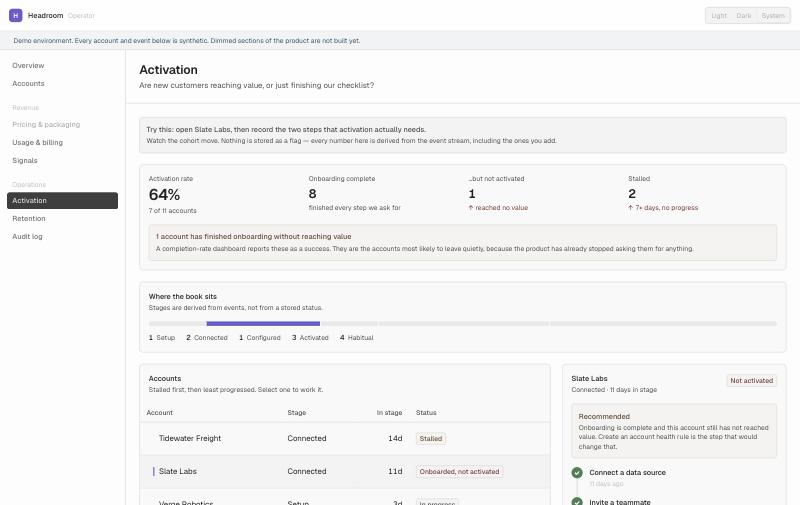
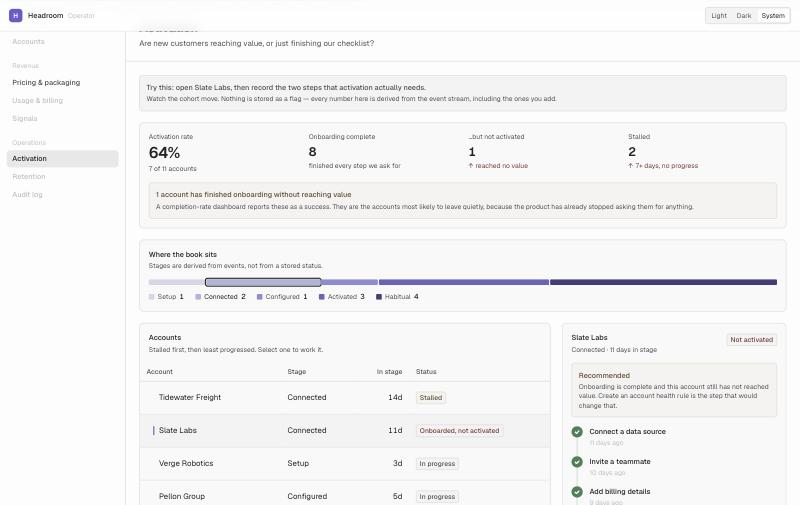
Give the stage distribution a sequential scale and unambiguous counts
The numbers in the bar were right — 1, 2, 1, 3, 4 of 11, rendering at 9, 18,
9, 27 and 36 per cent. The encoding was not.

Four of the five segments shared one flat fill, so the boundaries between them
were invisible and the bar read as a single block rather than a distribution.
The legend made it worse: a bare count in front of a stage name reads as an
ordinal, and because the stages are genuinely a sequence, "1 Setup,
2 Connected, 1 Configured" looked like a numbered list that had lost its place.

Segments now take a sequential scale, which is what ordered stages want, and
each legend entry pairs a swatch with its label and then its count. Emphasis
on the selected stage is a ring rather than a different fill, so it does not
overwrite the one thing the scale encodes.

The scale is generated separately from the UI ramp rather than aliased onto
it. Aliasing was the first attempt and the contrast gate rejected it: the UI
ramp is deliberately dense at the light end, where surfaces need fine
distinctions, which made consecutive steps measure Lc 0.0 apart. A chart scale
wants even perceptual spacing instead, so it gets its own.

The gate also corrected the check itself. Measuring each step against its
neighbour was wrong, because segments are separated by a gap in the card
colour — the gap does the separating, so what governs visibility is each step
against the card. Neighbour checks would have forced a scale whose first step
[…]

diff --git a/packages/ui/src/components/stepper.tsx b/packages/ui/src/components/stepper.tsx
@@ -137,9 +137,16 @@ export interface DistributionSegment {
 /**
  * A single stacked bar showing how a population splits across ordered stages.
  *
- * Counts are printed beside every label rather than relying on segment width,
- * because a stage holding one account out of eleven is a sliver nobody can
- * compare by eye.
+ * Segments take a sequential scale rather than one flat fill, because the
+ * stages are ordered and the scale should say so. One flat fill repeated five
+ * times makes every boundary invisible, which turns a distribution into a
+ * single block — the counts are then the only thing communicating, and the bar
+ * is decoration.
+ *
+ * Counts sit beside their own swatch in the legend. A bare number in front of
+ * a stage name reads as an ordinal, especially when the stages are a sequence:
+ * "1 Setup, 2 Connected, 1 Configured" looks like a numbered list that lost
+ * its place rather than three counts.
  */
 export function Distribution({
   segments,
@@ -156,27 +163,47 @@ export function Distribution({
     <div className={className}>
       <div
         role="img"
-        aria-label={`${label}: ${segments.map((s) => `${s.value} ${s.label}`).join(', ')}`}
-        className="flex h-2 w-full gap-0.5 overflow-hidden rounded-sm"
+        aria-label={`${label}. ${segments
+          .map((s) => `${s.label}: ${s.value}`)
+          .join('. ')}. ${total} in total.`}
+        className="flex h-2.5 w-full gap-0.5"
       >
-        {segments.map((s) => (
+        {segments.map((s, i) => (
           <span
             key={s.id}
             className={cn(
-              'h-full first:rounded-l-sm last:rounded-r-sm',
-              s.emphasis ? 'bg-accent-solid' : 'bg-bg-component-active',
+              'h-full rounded-xs',
+              // Emphasis is a ring, not a different fill: swapping the colour
+              // would break the one thing the scale is encoding.
+              s.emphasis && 'ring-2 ring-text-primary ring-offset-1 ring-offset-bg-surface',
             )}
-            style={{ width: total === 0 ? '0%' : `${(s.value / total) * 100}%` }}
+            style={{
+              backgroundColor: `var(--color-scale-${Math.min(i + 1, 5)})`,
+              width: total === 0 ? '0%' : `${(s.value / total) * 100}%`,
+            }}
           />
         ))}
       </div>
+
       <ul className="mt-3 flex flex-wrap gap-x-5 gap-y-2">
-        {segments.map((s) => (
-          <li key={s.id} className="flex items-baseline gap-1.5">
+        {segments.map((s, i) => (
+          <li key={s.id} className="flex items-center gap-1.5">
+            <span
+              aria-hidden
+              className="size-2.5 shrink-0 rounded-xs"
+              style={{ backgroundColor: `var(--color-scale-${Math.min(i + 1, 5)})` }}
+            />
+            <span
+              className={cn(
+                'text-metadata',
+                s.emphasis ? 'text-text-primary' : 'text-text-secondary',
+              )}
+            >
+              {s.label}
+            </span>
             <span data-numeric className="text-label text-text-primary">
               {s.value}
             </span>
-            <span className="text-metadata text-text-secondary">{s.label}</span>
           </li>
         ))}
       </ul>

diff --git a/packages/ui/src/tokens.css b/packages/ui/src/tokens.css
@@ -90,6 +90,11 @@
   --info-10: oklch(0.5 0.06788343620300294 235);
   --info-11: oklch(0.44 0.0485366569161415 235);
   --info-12: oklch(0.26 0.01268571719527245 235);
+  --chart-1: oklch(0.88 0.024383304119110105 285);
+  --chart-2: oklch(0.78 0.05822385549545288 285);
+  --chart-3: oklch(0.67 0.10230047893524172 285);
+  --chart-4: oklch(0.55 0.13580069005489354 285);
+  --chart-5: oklch(0.4 0.09816275238990783 285);
 
   --color-bg-page: var(--neutral-1);
   --color-bg-subtle: var(--neutral-2);
@@ -112,6 +117,11 @@
   --color-accent-solid: var(--accent-9);
   --color-accent-solid-hover: var(--accent-10);
   --color-accent-text: var(--accent-11);
+  --color-scale-1: var(--chart-1);
+  --color-scale-2: var(--chart-2);
+  --color-scale-3: var(--chart-3);
+  --color-scale-4: var(--chart-4);
+  --color-scale-5: var(--chart-5);
   --color-danger-bg: var(--danger-3);
   --color-danger-border: var(--danger-7);
   --color-danger-solid: var(--danger-9);
@@ -208,6 +218,11 @@
   --info-10: oklch(0.63 0.0735584915351868 235);
   --info-11: oklch(0.79 0.05588455464601517 235);
   --info-12: oklch(0.95 0.0055456675502657884 235);
+  --chart-1: oklch(0.47 0.10984879434108735 285);
+  --chart-2: oklch(0.56 0.12718689888715745 285);
+  --chart-3: oklch(0.65 0.10937493491172791 285);
+  --chart-4: oklch(0.74 0.07274566400051119 285);
+  --chart-5: oklch(0.83 0.037023301273584365 285);
 }
 
 @media (prefers-color-scheme: dark) {
@@ -286,6 +301,11 @@
     --info-10: oklch(0.63 0.0735584915351868 235);
     --info-11: oklch(0.79 0.05588455464601517 235);
     --info-12: oklch(0.95 0.0055456675502657884 235);
+    --chart-1: oklch(0.47 0.10984879434108735 285);
+    --chart-2: oklch(0.56 0.12718689888715745 285);
+    --chart-3: oklch(0.65 0.10937493491172791 285);
+    --chart-4: oklch(0.74 0.07274566400051119 285);
+    --chart-5: oklch(0.83 0.037023301273584365 285);
   }
 }
 
@@ -313,6 +333,11 @@
   --color-accent-solid: var(--accent-9);
   --color-accent-solid-hover: var(--accent-10);
   --color-accent-text: var(--accent-11);
+  --color-scale-1: var(--chart-1);
+  --color-scale-2: var(--chart-2);
+  --color-scale-3: var(--chart-3);
+  --color-scale-4: var(--chart-4);
+  --color-scale-5: var(--chart-5);
   --color-danger-bg: var(--danger-3);
   --color-danger-border: var(--danger-7);
   --color-danger-solid: var(--danger-9);
